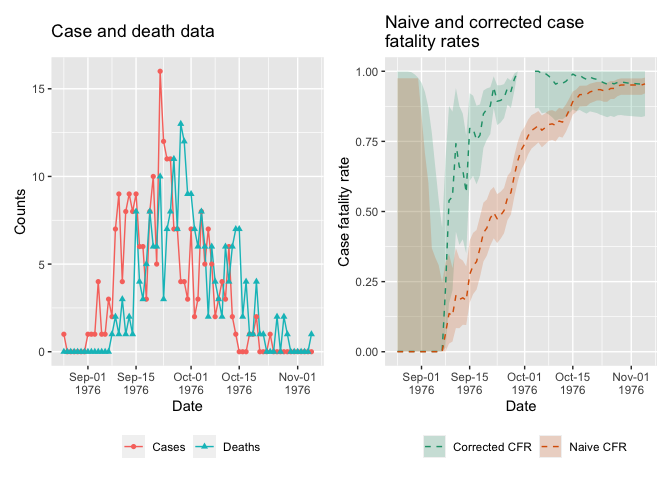
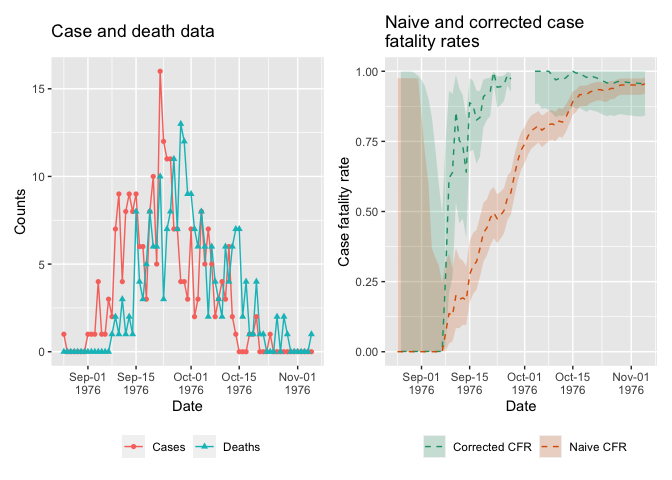
Add {epiparameter} dependency (#22)
* Use `epidist` object instead of delay_pmf

* Update tests to use manual EVD epidist

* Update test snapshots

* Update documentation for `epidist` usage

* Add {epiparameter} & {stats} dependency

* Update Readme to use manual EVD

* Automatic readme update

* Use EVD epidist from {epiparameter} db

* Ignore docs

* Automatic readme update

---------

diff --git a/README.md b/README.md
@@ -45,19 +45,17 @@ library(datadelay)
 # Load the Ebola 1976 data provided with the package
 data("ebola1976")
 
-# Get the onset to death distribution for ebola virus disease
-# from the {epiparameter} package
-onset_to_death_ebola <- epiparameter::epidist(
-  pathogen = "ebola",
-  delay_dist = "onset_to_death"
+# read epidist for EVD onset to death from {epiparameter}
+# accesses parameters reported in https://doi.org/10.1016/S0140-6736(18)31387-4
+onset_to_death_ebola <- epiparameter::epidist_db(
+  disease = "Ebola Virus Disease",
+  epi_dist = "onset_to_death",
+  author = "Barry_etal"
 )
-
-# Access the probability mass function
-delay_pmf <- onset_to_death_ebola$pmf
 
 # Calculate the static naive and corrected CFRs
 ncfr <- static_cfr(ebola1976, correct_for_delays = FALSE)
-ccfr <- static_cfr(ebola1976, correct_for_delays = TRUE, delay_pmf)
+ccfr <- static_cfr(ebola1976, correct_for_delays = TRUE, onset_to_death_ebola)
 
 # Print nicely formatted case fatality rate estimates
 format_cfr_neatly(ncfr)
@@ -74,11 +72,12 @@ df_ncfr <- rolling_cfr(ebola1976, correct_for_delays = FALSE)
 df_ccfr <- rolling_cfr(
   ebola1976,
   correct_for_delays = TRUE,
-  delay_pmf
+  onset_to_death_ebola
 )
 
 # Plotting case and death data along with CFRs
 plot_data_and_cfr(df_ncfr, df_ccfr)
+#> Warning: Removed 1 row containing missing values (`geom_line()`).
 ```
 
 <img src="man/figures/README-example-ebola-plot-1.png" width="100%" />

diff --git a/tests/testthat/_snaps/known_outcomes.md b/tests/testthat/_snaps/known_outcomes.md
@@ -4,12 +4,12 @@
       head(df_known_outcomes_raw)
     Output
               date cases deaths known_outcomes
-      1 1976-08-25     1      0     0.01512732
-      2 1976-08-26     0      0     0.04990364
-      3 1976-08-27     0      0     0.07577842
-      4 1976-08-28     0      0     0.09010817
-      5 1976-08-29     0      0     0.09503948
-      6 1976-08-30     0      0     0.09333884
+      1 1976-08-25     1      0     0.00000000
+      2 1976-08-26     0      0     0.03316057
+      3 1976-08-27     0      0     0.06482994
+      4 1976-08-28     0      0     0.08472567
+      5 1976-08-29     0      0     0.09389465
+      6 1976-08-30     0      0     0.09506629
 
 ---
 
@@ -17,10 +17,10 @@
       head(df_known_outcomes_raw)
     Output
               date cases deaths known_outcomes
-      1 1976-08-25     1      0     0.01512732
-      2 1976-08-26     0      0     0.04990364
-      3 1976-08-27     0      0     0.07577842
-      4 1976-08-28     0      0     0.09010817
-      5 1976-08-29     0      0     0.09503948
-      6 1976-08-30     0      0     0.09333884
+      1 1976-08-25     1      0     0.00000000
+      2 1976-08-26     0      0     0.03316057
+      3 1976-08-27     0      0     0.06482994
+      4 1976-08-28     0      0     0.08472567
+      5 1976-08-29     0      0     0.09389465
+      6 1976-08-30     0      0     0.09506629
 

diff --git a/tests/testthat/_snaps/plotting.md b/tests/testthat/_snaps/plotting.md
@@ -10,11 +10,11 @@
         4:  0.000   0.000    0.975 1976-08-28     0      0 ncfr
         5:  0.000   0.000    0.975 1976-08-29     0      0 ncfr
        ---                                                     
-      142:  0.957   0.840    1.000 1976-11-01     0      0 ccfr
-      143:  0.956   0.839    1.000 1976-11-02     0      0 ccfr
-      144:  0.955   0.838    1.000 1976-11-03     0      0 ccfr
-      145:  0.954   0.837    1.000 1976-11-04     0      0 ccfr
-      146:  0.957   0.840    1.000 1976-11-05     0      1 ccfr
+      142:  0.959   0.842    1.000 1976-11-01     0      0 ccfr
+      143:  0.958   0.840    1.000 1976-11-02     0      0 ccfr
+      144:  0.957   0.839    1.000 1976-11-03     0      0 ccfr
+      145:  0.956   0.839    1.000 1976-11-04     0      0 ccfr
+      146:  0.959   0.842    1.000 1976-11-05     0      1 ccfr
 
 ---
 

diff --git a/tests/testthat/_snaps/rolling_cfr.md b/tests/testthat/_snaps/rolling_cfr.md
@@ -17,10 +17,10 @@
       tail(rcfr_corrected)
     Output
          cfr_me cfr_low cfr_high       date cases deaths
-      68  0.958   0.841        1 1976-10-31     0      0
-      69  0.957   0.840        1 1976-11-01     0      0
-      70  0.956   0.839        1 1976-11-02     0      0
-      71  0.955   0.838        1 1976-11-03     0      0
-      72  0.954   0.837        1 1976-11-04     0      0
-      73  0.957   0.840        1 1976-11-05     0      1
+      68  0.960   0.843        1 1976-10-31     0      0
+      69  0.959   0.842        1 1976-11-01     0      0
+      70  0.958   0.840        1 1976-11-02     0      0
+      71  0.957   0.839        1 1976-11-03     0      0
+      72  0.956   0.839        1 1976-11-04     0      0
+      73  0.959   0.842        1 1976-11-05     0      1
 

diff --git a/tests/testthat/_snaps/static_cfr.md b/tests/testthat/_snaps/static_cfr.md
@@ -12,7 +12,7 @@
       scfr_corrected
     Output
         cfr_me  cfr_low cfr_high 
-         0.957    0.840    1.000 
+         0.959    0.842    1.000 
 
 ---
 
